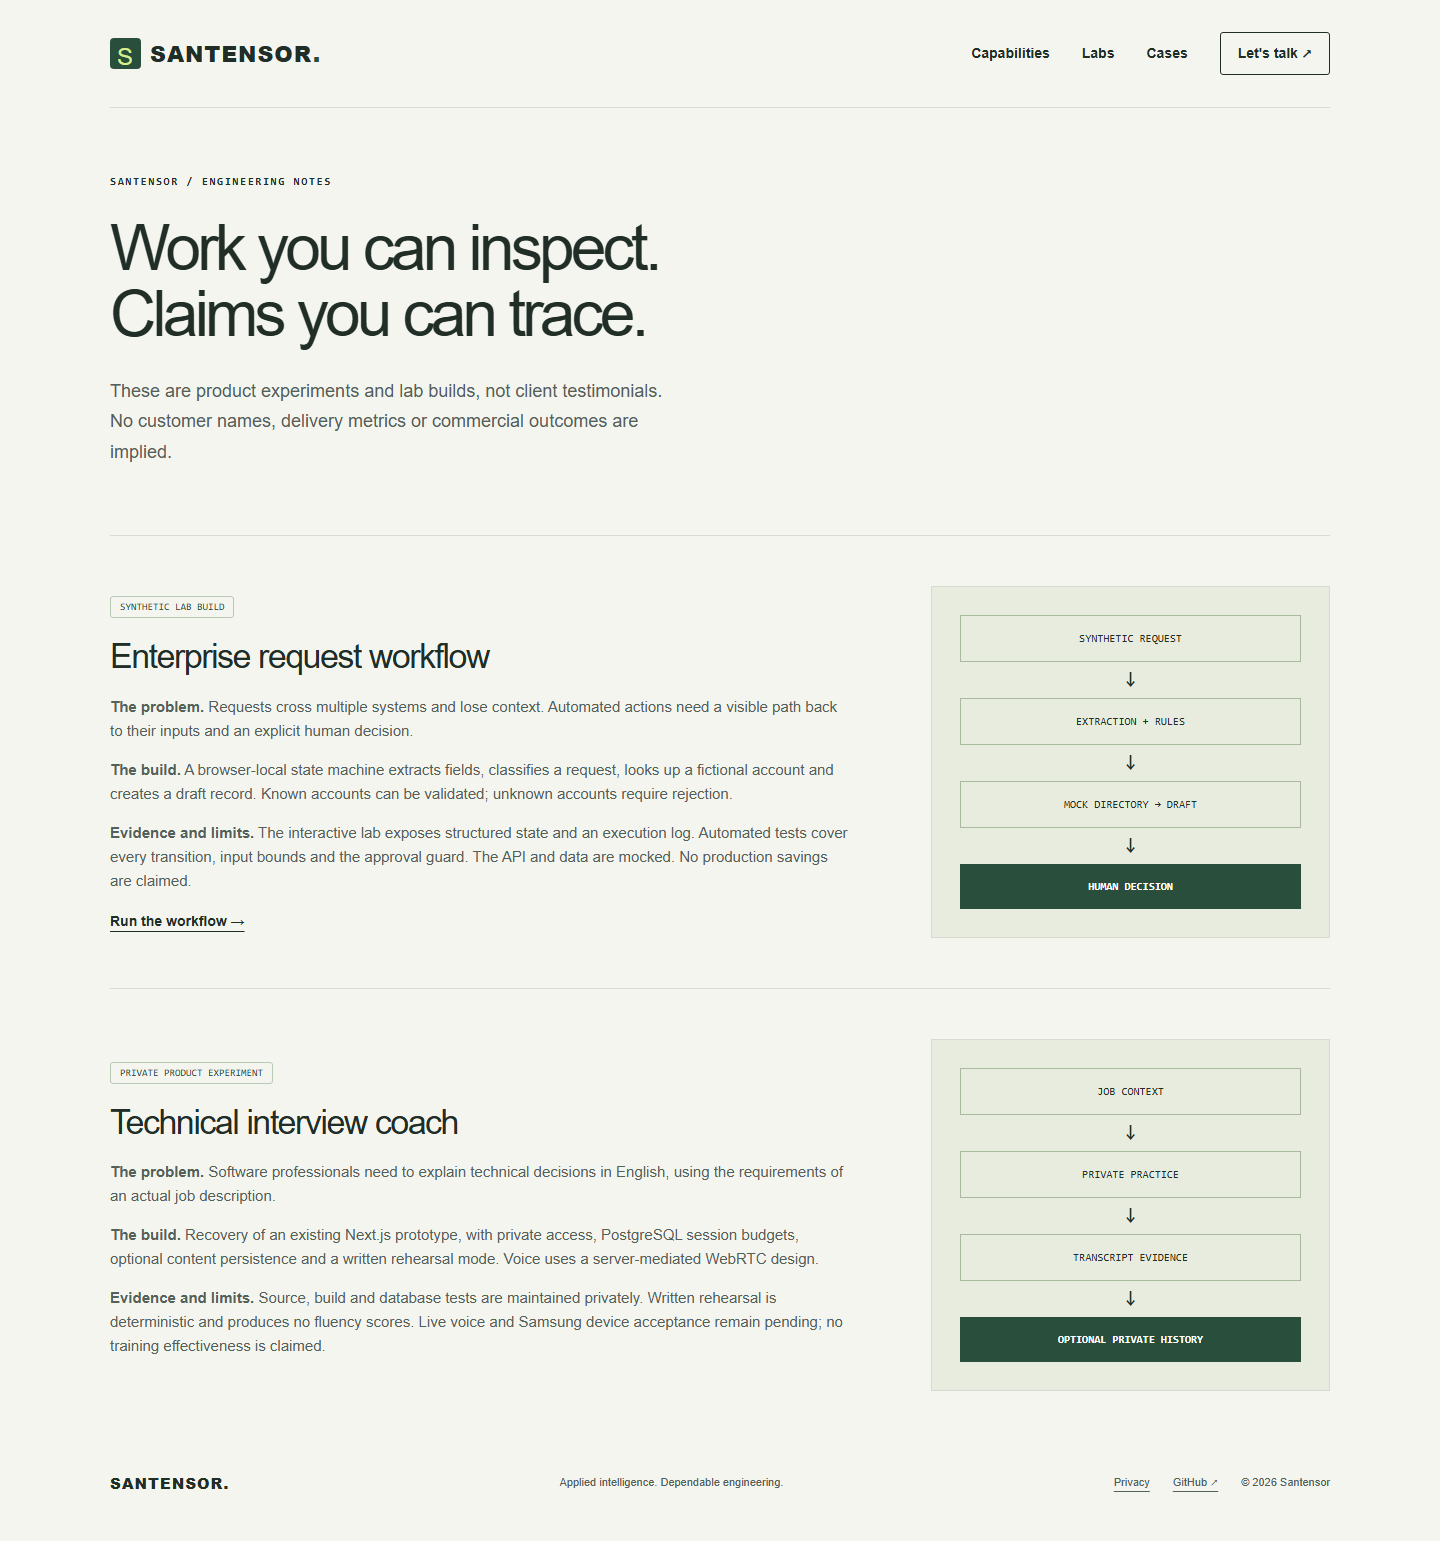
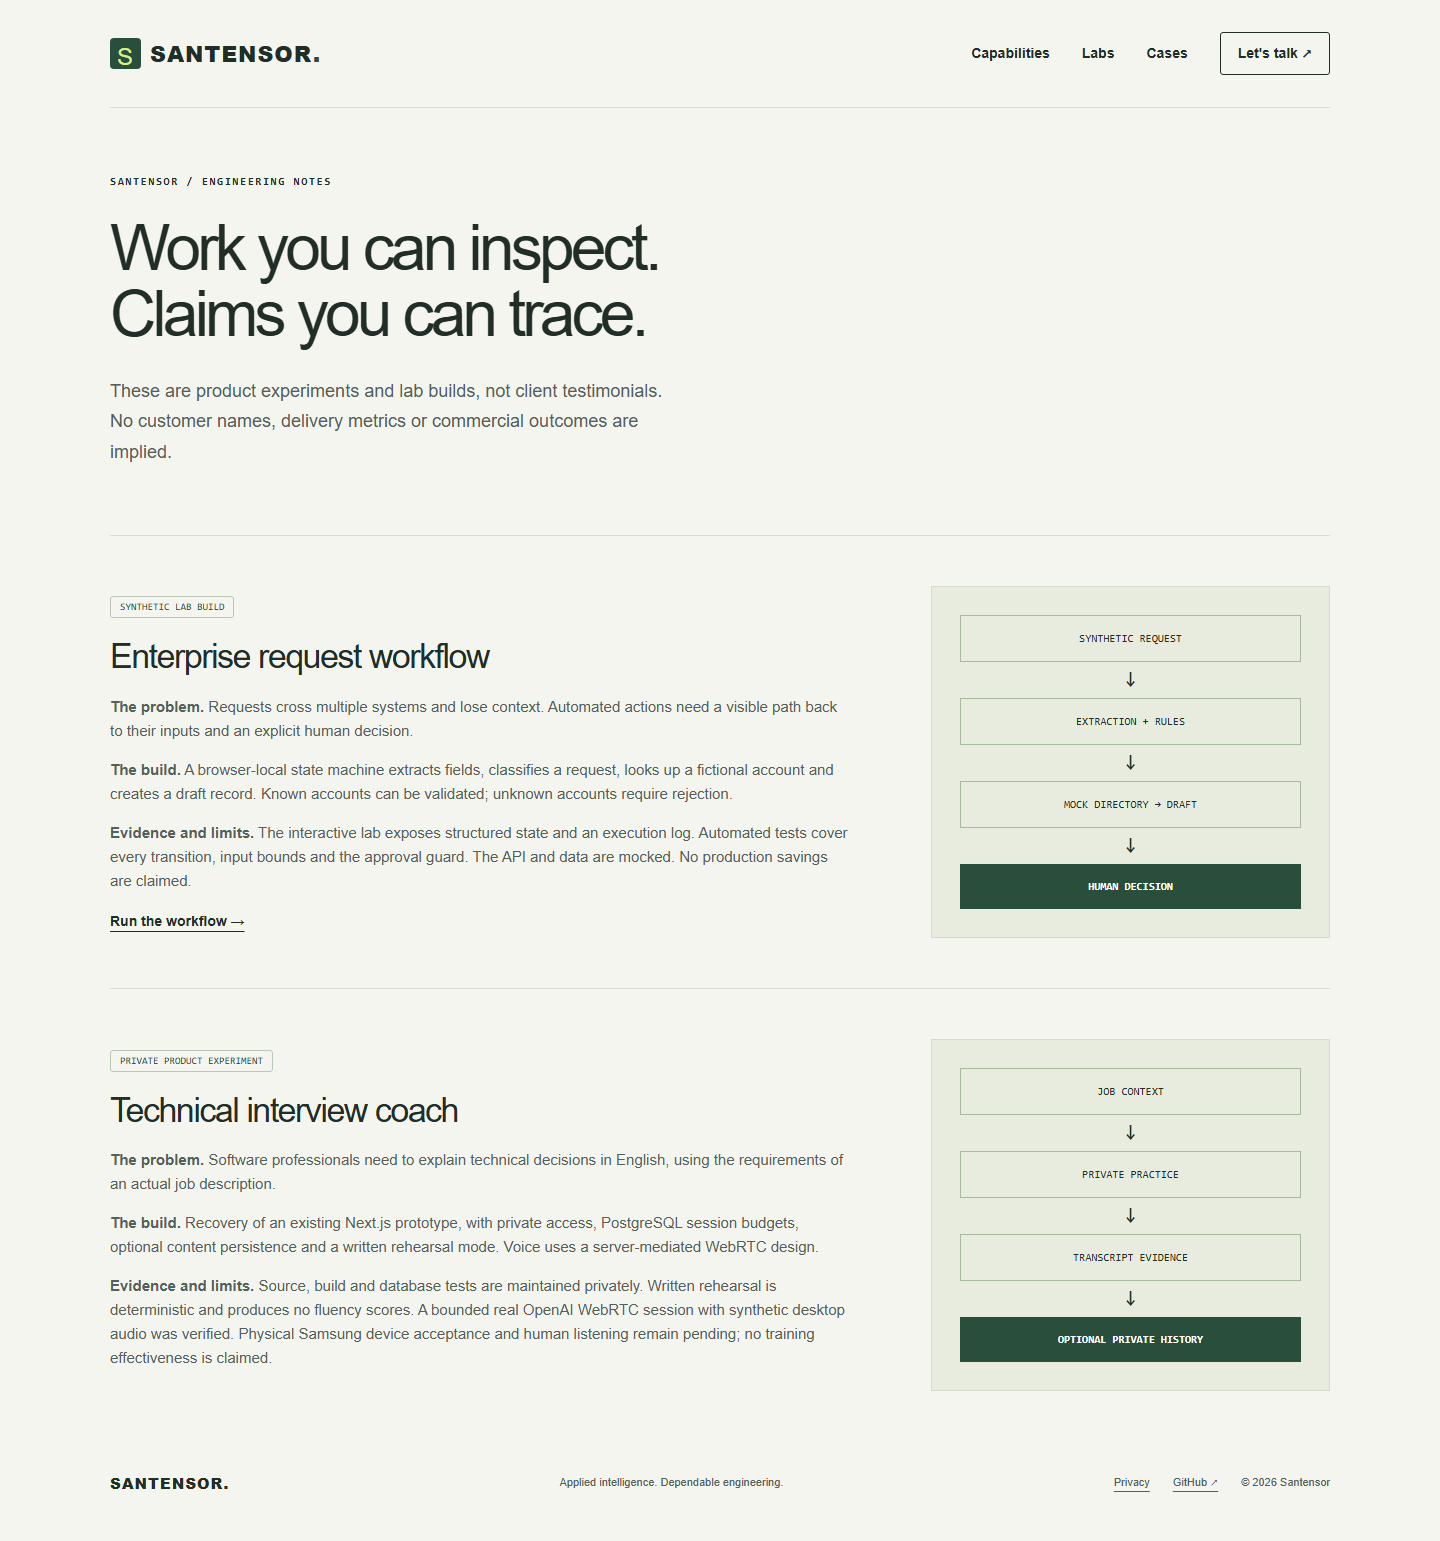
test: verify HTTPS candidate and rehearse preserved site rollback

Changed region(s): [[0.0625, 0.6853, 0.5938, 0.9033]]

diff --git a/docs/PR_BODY.md b/docs/PR_BODY.md
@@ -1,0 +1,5 @@
+Replaces the legacy landing page with Santensor's English positioning: AI & Machine Learning Engineering, Software & Systems Engineering, then Enterprise Automation & Modernization. Adds an inspectable request workflow with synthetic fixtures, explicit mock API behavior and a mandatory human decision; cases and privacy state their limits.
+
+Preserves all existing assets, history, CNAME, DNS and Pages source configuration. The known-good baseline is saved in a remote rollback branch and tag. A local restoration drill matched the current live HTML hash and served all six checked legacy routes successfully.
+
+Validation: 5 state-machine tests, 4 browser tests on local and HTTPS candidate (390/768/1440 px; four routes; internal links; axe A/AA), zero npm audit findings. Lighthouse candidate performance/accessibility/best-practices: 100/100/100. Preview SEO is 63 because staging is intentionally noindex; local production markup scores SEO 100. Evidence is in evidence/ and the CI artifact. Public candidate: https://trainer-web-production-f2e9.up.railway.app/commercial-preview/ .
